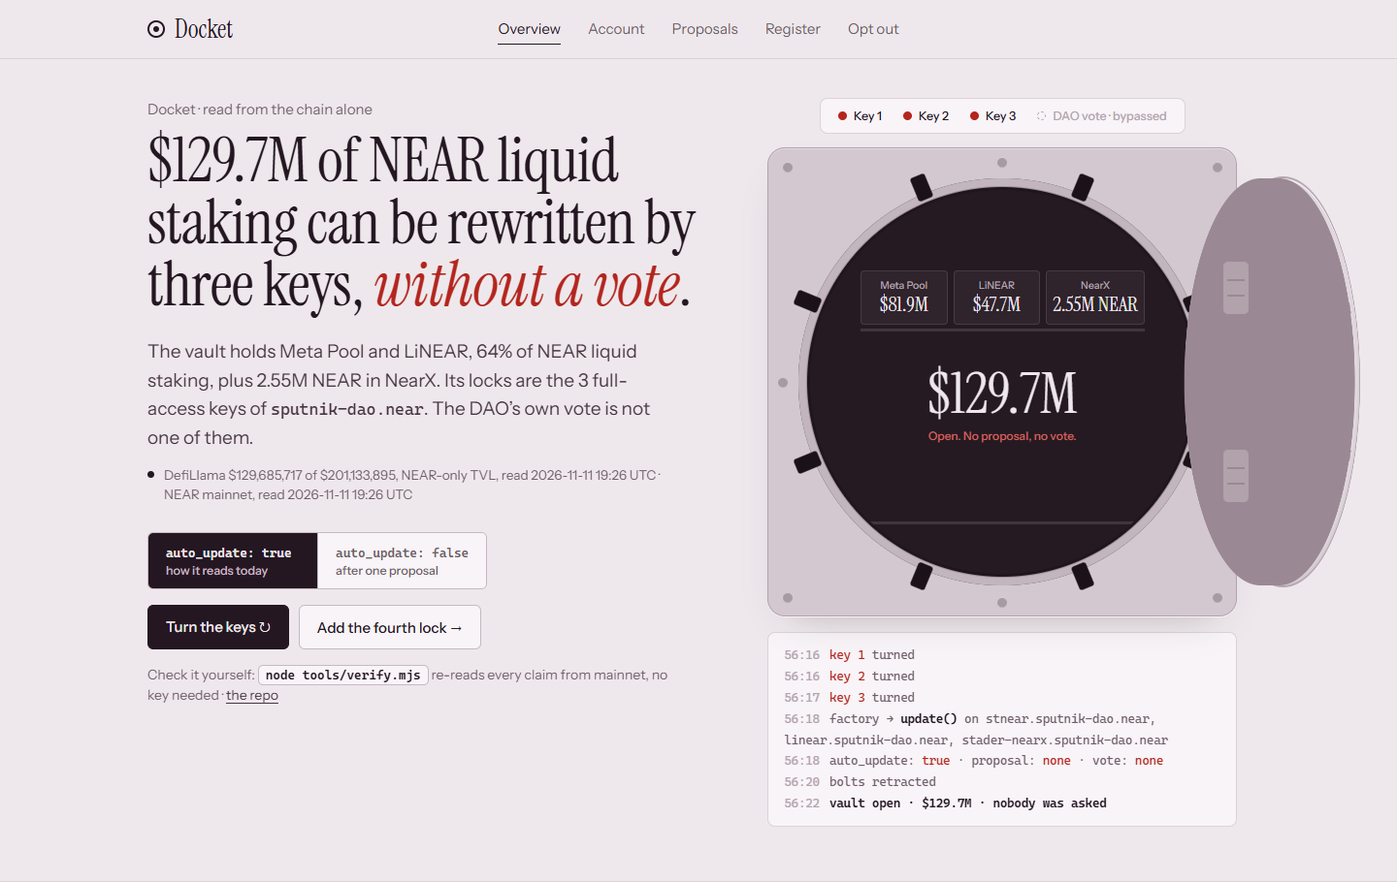
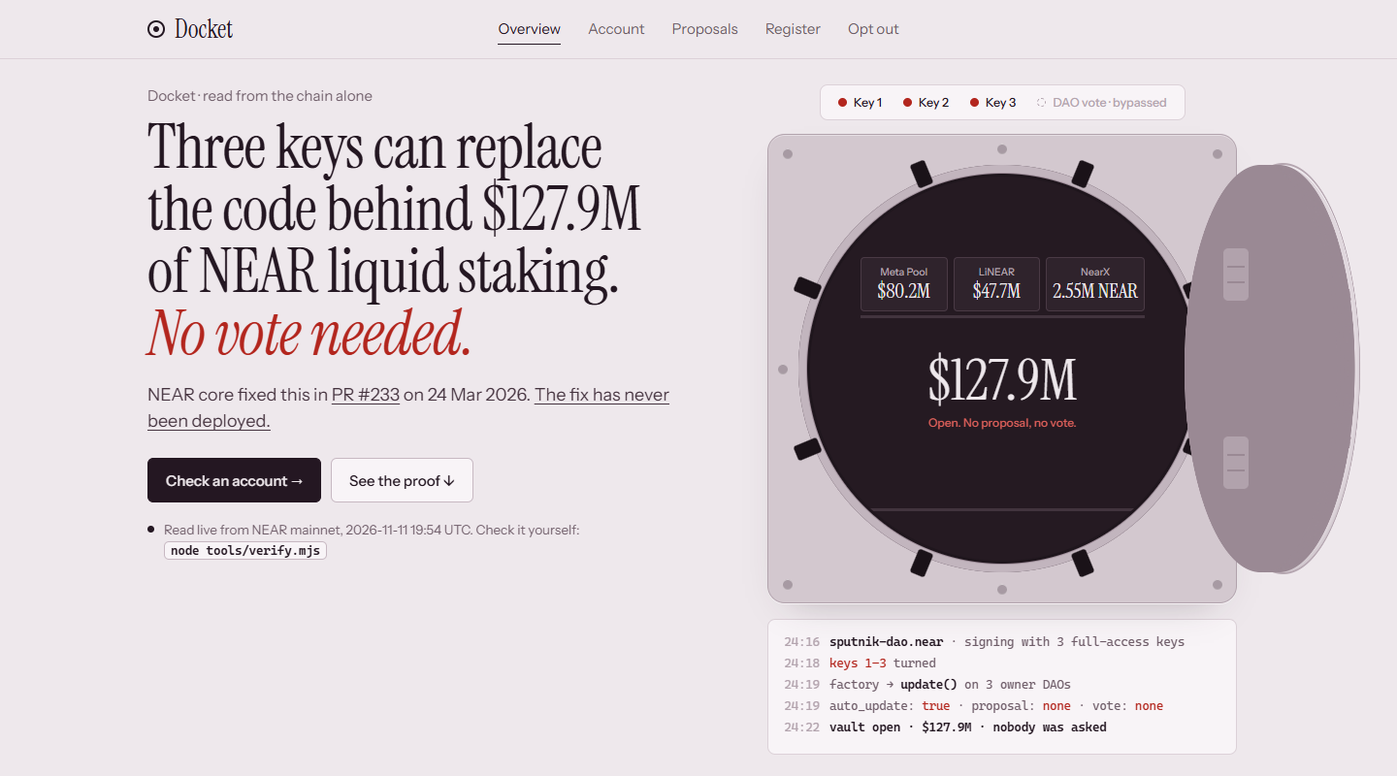
Homepage, less text and the same design: the hero is one sentence ("Three keys can replace the code behind $X of NEAR liquid staking. No vote needed.", $X the live Meta Pool + LiNEAR figure, recorded as fallback), the PR #233 line (the "never deployed" clause only while the live factory read says no

diff --git a/app/src/Home.jsx b/app/src/Home.jsx
@@ -8,14 +8,19 @@ import { useCallback, useEffect, useRef, useState } from 'react';
 import '../../web/assets/home.css';
 import { createRpc } from '../../web/assets/rpc.js';
 import { liveCounter, pct } from '../../web/assets/census.js';
-import { FACTORY } from '../../web/assets/index-view.js';
+import { FACTORY, countWord } from '../../web/assets/index-view.js';
 import { SOURCE } from '../../web/assets/source.js';
 import { startMotion } from '../../web/assets/motion.js';
 import { drawWaffle } from '../../web/assets/diagrams.js';
-import { useFinding, useCensus, headline, usd, usdShort, time, nearShort, pct0, RECORDED } from './lib/finding.js';
+import { useFinding, useCensus, usd, usdShort, time, nearShort, pct0, RECORDED } from './lib/finding.js';
 const REPO = 'https://github.com/aditi3175/docket';
 
 const TX = (h) => `https://nearblocks.io/txns/${h}`;
+const PR = 'https://github.com/near-daos/sputnik-dao-contract/pull/233';
+// The mainnet opt-out test on docket-demo.sputnik-dao.near (ARCHITECTURE.md §16.5): the same factory
+// update twice, only auto_update changed between them.
+const TX_TRUE = 'EZw51V5kCMeCCMsmNw5WqDsSUK8R2CHs4WyeK4jTtB1b'; // step 9, auto_update: true, update ran
+const TX_FALSE = '772n4ZWMRtmXwsWuVTSP5F1UkbZ27UNyM9SqVzgXnXFS'; // step 5, auto_update: false, rejected
 const PAGES = [['Overview', 'index.html'], ['Account', 'account.html'], ['Proposals', 'docket.html'], ['Register', 'register.html'], ['Opt out', 'optout.html']];
 const known = (o) => Boolean(o) && o !== 'unknown' && o !== 'none';
 const auKind = (a) => (a === true ? 'novote' : a === false ? 'optedout' : 'unknown');
@@ -28,37 +33,38 @@ function KeySvg({ w, h, faint }) {
 }
 
 // ---------------- copy built from the reads ----------------
-function Headline({ of }) {
-  const text = headline(of);
-  const cut = text.indexOf(', without a vote.');
-  if (cut < 0) return <>{text}</>;
-  return <>{text.slice(0, cut)}, <span className="novote">without a vote</span>.</>;
+// One sentence. The key count and the dollar figure are reads (recorded first, labelled below); an
+// unknown read says unknown (I2). The figure is the same one everywhere: Meta Pool + LiNEAR, the
+// DefiLlama-valued protocols whose DAO reads auto_update: true (index-view.js).
+function Headline({ s }) {
+  const n = s.keys.count; const x = s.headlineOf.exposedUsd;
+  const w = n === null ? null : countWord(n);
+  const who = w === null ? 'The factory’s keys (how many is unknown)' : `${w[0].toUpperCase()}${w.slice(1)} key${n === 1 ? '' : 's'}`;
+  return <>{who} can replace the code behind {typeof x === 'number' ? usdShort(x) : 'an unknown amount'} of NEAR liquid staking. <span className="novote">No vote needed.</span></>;
 }
 
-function Lede({ s }) {
-  const r = s.headlineOf;
-  const valued = r.rows.filter((x) => x.slug && x.autoUpdate === true).map((x) => x.name).join(' and ');
-  const nearx = r.rows.find((x) => !x.slug && x.autoUpdate === true && x.staked?.near);
-  const n = s.keys.count;
-  return (
-    <p className="lede">
-      {typeof r.exposedUsd === 'number'
-        ? <>The vault holds {valued || 'none of them'}, {pct0(r.exposedUsd, r.lsTotal)} of NEAR liquid staking{nearx ? <>, plus {nearShort(nearx.staked.near)} in NearX</> : null}. </>
-        : <>The dollar figure is unknown right now. </>}
-      {n === null
-        ? <>How many keys open it is unknown right now.</>
-        : <>Its locks are the {n} full-access key{n === 1 ? '' : 's'} of <Id>{FACTORY}</Id>. The DAO’s own vote is not one of them.</>}
-    </p>
-  );
+// I19: "never been deployed" is said only while the live factory read says so.
+function FixLine({ badge }) {
+  const tail = !badge ? <>Whether it is deployed: reading the factory…</>
+    : badge.state === 'not-shipped' ? <><a href="#fix">The fix has never been deployed.</a></>
+      : badge.state === 'factory-changed' ? <><a href="#fix">The factory has changed since; check what it deploys.</a></>
+        : <span className="unknown-text">Whether it is deployed: unknown.</span>;
+  return <p className="fixline">NEAR core fixed this in <a href={PR}>PR #233</a> on 24 Mar 2026. {tail}</p>;
 }
 
 function provenance(s) {
+  if (s.failed) return `Unknown: the read failed (${s.failed}). Shown: recorded ${time(RECORDED.llamaReadAt)}.`;
+  if (s.gaps.length) return `Live reads failed (${s.gaps.join(', ')}). Shown: recorded ${time(RECORDED.llamaReadAt)}.`;
+  if (s.recorded) return `Recorded ${time(RECORDED.llamaReadAt)} · reading NEAR mainnet live…`;
+  return `Read live from NEAR mainnet, ${time(s.readAt)}.`;
+}
+
+// The exact figures, small print in section 02 (I1: each with its source and time).
+function exact(s) {
   const r = s.headlineOf;
-  const money = typeof r.exposedUsd === 'number' ? `${usd(r.exposedUsd)} of ${usd(r.lsTotal)}, NEAR-only TVL` : 'value unknown';
-  if (s.failed) return `Unknown: the page failed while reading (${s.failed}). Shown: the values recorded ${time(RECORDED.llamaReadAt)}.`;
-  if (s.gaps.length) return `Live reads failed at ${time(s.readAt)}: ${s.gaps.join(', ')}. The headline shows the values recorded ${time(RECORDED.llamaReadAt)} (DefiLlama) and ${RECORDED.chainRecordedOn} (chain).`;
-  if (s.recorded) return `Recorded values: DefiLlama ${money}, ${time(RECORDED.llamaReadAt)} · NEAR mainnet, ${RECORDED.chainRecordedOn}. Reading live now…`;
-  return `DefiLlama ${money}, read ${time(s.llamaReadAt)} · NEAR mainnet, read ${time(s.readAt)}`;
+  const money = typeof r.exposedUsd === 'number' ? `${usd(r.exposedUsd)} of ${typeof r.lsTotal === 'number' ? usd(r.lsTotal) : 'unknown'}` : 'unknown';
+  const llama = s.recorded || s.gaps.length || s.failed ? `recorded ${time(RECORDED.llamaReadAt)}` : `read ${time(s.llamaReadAt)}`;
+  return `Meta Pool + LiNEAR, NEAR-only TVL (DefiLlama): ${money} NEAR liquid staking, ${llama}.`;
 }
 
 // ---------------- the vault's sequence ----------------
@@ -75,38 +81,37 @@ function useVault(s) {
   const latest = useRef(s);
   latest.current = s;
   useEffect(() => () => timers.current.forEach(clearTimeout), []);
-  const run = useCallback((mode) => {
+  const run = useCallback(() => {
     timers.current.forEach(clearTimeout); timers.current = [];
     const at = (ms, f) => timers.current.push(setTimeout(f, still() ? 0 : ms));
     const patch = (p) => set((x) => ({ ...x, ...p }));
-    const log = (...parts) => set((x) => ({ ...x, log: [...x.log, { t: stamp(), parts }].slice(-7) }));
+    const log = (...parts) => set((x) => ({ ...x, log: [...x.log, { t: stamp(), parts }].slice(-5) }));
     set({ ...IDLE, log: [] });
     const { keys, rows } = latest.current;
     const n = keys.count;
     if (n === null) { log('factory keys: ', ['unknown', 'unknown-text'], ' · the read failed, so the vault is not animated'); return; }
-    log([FACTORY, 'w'], ' · signing with its full-access keys');
+    log([FACTORY, 'w'], ` · signing with ${n} full-access key${n === 1 ? '' : 's'}`);
     const step = 650;
     for (let i = 0; i < n; i++) {
       at(500 + i * step, () => patch({ inK: i + 1 }));
-      at(1050 + i * step, () => { patch({ turned: i + 1 }); log([`key ${i + 1}`, 'novote'], ' turned'); });
+      at(1050 + i * step, () => { patch({ turned: i + 1 }); if (i === n - 1) log([n === 1 ? 'key 1' : `keys 1–${n}`, 'novote'], ' turned'); });
     }
     const t0 = 1050 + n * step;
     const owners = rows.map((r) => r.owner).filter(known);
-    at(t0, () => log('factory → ', ['update()', 'w'], ` on ${owners.length ? owners.join(', ') : 'the owner DAOs'}`));
+    at(t0, () => log('factory → ', ['update()', 'w'], ` on ${owners.length ? `${owners.length} owner DAO${owners.length === 1 ? '' : 's'}` : 'the owner DAOs'}`));
     const anyTrue = rows.some((r) => r.autoUpdate === true);
     const allFalse = rows.every((r) => r.autoUpdate === false);
-    if (mode === 't' && anyTrue) {
+    if (anyTrue) {
       at(t0 + 500, () => { patch({ vote: 'bypass' }); log('auto_update: ', ['true', 'novote'], ' · proposal: ', ['none', 'novote'], ' · vote: ', ['none', 'novote']); });
       at(t0 + 800, () => patch({ spin: true }));
-      at(t0 + 2000, () => { patch({ retract: true }); log('bolts retracted'); });
+      at(t0 + 2000, () => patch({ retract: true }));
       at(t0 + 2600, () => patch({ open: true }));
       at(t0 + 3900, () => log(['vault open · ', 'g'], TOTAL, [' · nobody was asked', 'g']));
-    } else if (mode === 'f' || allFalse) {
-      at(t0 + 500, () => { patch({ vote: 'req' }); log('auto_update: ', ['false', 'optedout'], ' · a DAO proposal is required'); });
+    } else if (allFalse) {
+      at(t0 + 500, () => { patch({ vote: 'req' }); log('auto_update: ', ['false', 'optedout'], ' · proposal required'); });
       at(t0 + 800, () => patch({ jam: true }));
-      at(t0 + 1400, () => { patch({ shake: true }); log(['update rejected', 'optedout'], mode === 'f' ? ' · as in the mainnet test, tx 772n4Z…' : ''); });
-      at(t0 + 2400, () => log(['vault stays shut', 'w'], ' · the members decide'));
-    } else {
+      at(t0 + 1400, () => { patch({ shake: true }); log(['update rejected', 'optedout']); });
+          } else {
       at(t0 + 500, () => log('auto_update: ', ['unknown', 'unknown-text'], ' · the read failed; the vault is shown shut'));
     }
   }, []);
@@ -192,47 +197,37 @@ function Vault({ s, st, frameRef }) {
 
 function Hero({ s }) {
   const [st, run] = useVault(s);
-  const [mode, setMode] = useState('t');
   const frameRef = useRef(null);
   useEffect(() => {
-    const f = frameRef.current; if (!f || typeof IntersectionObserver !== 'function') { run('t'); return undefined; }
-    const o = new IntersectionObserver((es) => { if (es.some((e) => e.isIntersecting)) { run('t'); o.disconnect(); } }, { threshold: 0.25 });
+    const f = frameRef.current; if (!f || typeof IntersectionObserver !== 'function') { run(); return undefined; }
+    const o = new IntersectionObserver((es) => { if (es.some((e) => e.isIntersecting)) { run(); o.disconnect(); } }, { threshold: 0.25 });
     o.observe(f);
     return () => o.disconnect();
   }, [run]);
-  const pick = (m) => { setMode(m); run(m); };
   const live = !s.recorded && !s.gaps.length && !s.failed;
   return (
     <div className="hero"><div className="wrap">
       <div className="hero-text">
         <div className="eyebrow">Docket · read from the chain alone</div>
-        <h1><Headline of={s.headlineOf} /></h1>
-        <Lede s={s} />
-        <p className={`prov${live ? ' live' : ''}`} aria-live="polite"><i /><span>{provenance(s)}</span></p>
-        <div className="modes" role="group" aria-label="Replay the vault">
-          <button type="button" className="t" aria-pressed={mode === 't'} onClick={() => pick('t')}><span>auto_update: true</span><small>how it reads today</small></button>
-          <button type="button" className="f" aria-pressed={mode === 'f'} onClick={() => pick('f')}><span>auto_update: false</span><small>after one proposal</small></button>
-        </div>
+        <h1><Headline s={s} /></h1>
+        <FixLine badge={s.badge} />
         <div className="cta">
-          <button type="button" className="btn gold" onClick={() => run(mode)}>Turn the keys ↻</button>
-          <a className="btn" href="optout.html?dao=stnear.sputnik-dao.near">Add the fourth lock →</a>
+          <a className="btn gold" href="account.html">Check an account →</a>
+          <a className="btn" href="#proof">See the proof ↓</a>
         </div>
-        <p className="checkit">Check it yourself: <code>node tools/verify.mjs</code> re-reads every claim from mainnet, no key needed · <a href={REPO}>the repo</a></p>
+        <p className={`prov${live ? ' live' : ''}`} aria-live="polite"><i /><span>{provenance(s)} Check it yourself: <a href={REPO}><code>node tools/verify.mjs</code></a></span></p>
       </div>
       <Vault s={s} st={st} frameRef={frameRef} />
     </div></div>
   );
 }
 
-// ---------------- the path: today, and after one proposal ----------------
-// Two lanes, the same keys. Today's lane is the read: the key count and how many DAOs read
-// auto_update: true. The other is the mainnet opt-out test (§16.5): the factory's update was rejected.
-// Motion: when the lanes scroll into view the steps light up in order; then a dot keeps running the
-// path (to the end today; to the ✕ after the proposal). Off under prefers-reduced-motion (home.css).
-function Story({ s }) {
-  const n = s.keys.count;
-  const open = s.rows.filter((x) => x.autoUpdate === true);
-  const keys = n === null ? 'keys: unknown' : `${n} keys`;
+// ---------------- 01 the proof: the same update, two endings ----------------
+// The mainnet opt-out test (§16.5) on docket-demo.sputnik-dao.near: the same receipt
+// sputnik-dao.near → docket-demo.sputnik-dao.near update(), with only auto_update changed. Each lane
+// links its transaction. Motion: the steps light up in order when the lanes scroll into view, then a
+// dot runs the path (to the end with true; to the ✕ with false). Off under prefers-reduced-motion.
+function Story() {
   const ref = useRef(null);
   const [play, setPlay] = useState(false);
   useEffect(() => {
@@ -243,28 +238,30 @@ function Story({ s }) {
   const node = (i, icon, label, dim) => <li className={`n${dim ? ' dim' : ''}`} style={{ '--i': i }}><svg aria-hidden="true"><use href={`#${icon}`} /></svg><b>{label}</b></li>;
   const arrow = (i, cls = '') => <li className={`a ${cls}`.trim()} style={{ '--i': i }} aria-hidden="true"><em /></li>;
   return (
-    <section className="s" id="story"><div className="wrap">
-      <div className="sh"><div className="n">01 · The path</div><div>
+    <section className="s" id="proof"><div className="wrap">
+      <div className="sh"><div className="n">01 · The proof</div><div>
         <h2>Same keys. <span className="novote">Different ending.</span></h2>
+        <p>On mainnet, the factory sent the same <Id>update()</Id> to a test DAO, docket-demo, twice. Only <Id>auto_update</Id> changed between them.</p>
       </div></div>
       <div ref={ref} className={`ends${play ? ' play' : ''}`}>
-        <div className={`end ${open.length ? 'novote' : 'unknown'}`}>
-          <h3>Today</h3>
-          <small>{open.length ? `auto_update: true on ${open.map((x) => x.name).join(', ')}` : 'auto_update: unknown'}</small>
-          <ol className="chain" aria-label="Today: the factory's keys replace the DAO's code">
-            {node(0, 'i-key', keys)}{arrow(1)}{node(2, 'i-factory', 'factory')}{arrow(3)}{node(4, open.length ? 'i-dao' : 'i-dao-u', 'DAO')}{arrow(5)}{node(6, 'i-coins', 'deposits')}
+        <div className="end novote">
+          <h3>auto_update: true</h3>
+          <small>step 9 · the default</small>
+          <ol className="chain" aria-label="auto_update true: the factory's update replaced the DAO's code">
+            {node(0, 'i-factory', 'sputnik-dao.near')}{arrow(1)}{node(2, 'i-dao', 'docket-demo')}{arrow(3)}{node(4, 'i-code', 'its code')}
           </ol>
-          <div className="end-out" style={{ '--i': 7 }}>{open.length ? <><b>replaced</b><span>no proposal, no vote</span></> : <><b className="unknown-text">unknown</b><span>auto_update unread</span></>}</div>
+          <div className="end-out" style={{ '--i': 5 }}><b>replaced</b><span>no proposal, no vote · <a href={TX(TX_TRUE)}>EZw51V5k… on nearblocks</a></span></div>
         </div>
         <div className="end optedout">
-          <h3>After one proposal</h3>
-          <small>auto_update: false</small>
-          <ol className="chain" aria-label="After the opt-out: the factory's update is rejected at the DAO">
-            {node(0, 'i-key', keys)}{arrow(1)}{node(2, 'i-factory', 'factory')}{arrow(3, 'stop')}{node(4, 'i-dao-v', 'DAO')}{arrow(5, 'dim')}{node(6, 'i-coins', 'deposits', true)}
+          <h3>auto_update: false</h3>
+          <small>step 5 · after one proposal</small>
+          <ol className="chain" aria-label="auto_update false: the factory's update was rejected at the DAO">
+            {node(0, 'i-factory', 'sputnik-dao.near')}{arrow(1, 'stop')}{node(2, 'i-dao-v', 'docket-demo')}{arrow(3, 'dim')}{node(4, 'i-code', 'its code', true)}
           </ol>
-          <div className="end-out" style={{ '--i': 7 }}><b>rejected</b><span>a vote is required · <a href={TX('772n4ZWMRtmXwsWuVTSP5F1UkbZ27UNyM9SqVzgXnXFS')}>tested on mainnet</a></span></div>
+          <div className="end-out" style={{ '--i': 5 }}><b>rejected</b><span><Id>ERR_MUST_BE_SELF_OR_FACTORY</Id> · <a href={TX(TX_FALSE)}>772n4ZWM… on nearblocks</a></span></div>
         </div>
       </div>
+      <p className="why-line"><b>Why it exists:</b> <Id>auto_update</Id> lets the factory rescue a broken DAO. The problem is that nobody downstream can see it, and NEAR’s own fix isn’t deployed.</p>
     </div></section>
   );
 }
@@ -279,7 +276,7 @@ function Deposits({ s }) {
     <section className="s" id="inside"><div className="wrap">
       <div className="sh"><div className="n">02 · Inside the vault</div><div>
         <h2>Each deposit is owned by a DAO the factory can upgrade <span className="novote">without a vote</span>.</h2>
-        <p>Each protocol's contract is owned by a Sputnik DAO. Each card shows that DAO's <Id>auto_update</Id>, read from the chain.</p>
+        <p>Each protocol's contract is owned by a Sputnik DAO. Each card shows that DAO's <Id>auto_update</Id>.</p>
       </div></div>
       <div className="deposits">
         {s.rows.map((x, i) => {
@@ -308,6 +305,7 @@ function Deposits({ s }) {
         <span>{ok ? `${valued.map((x) => x.name).join(' + ')} = ${pct0(r.exposedUsd, r.lsTotal)} of ${usdShort(r.lsTotal)} NEAR liquid staking (DefiLlama, NEAR-only TVL)` : 'Share of NEAR liquid staking: unknown'}</span>
         <span>{nx ? `${nx.name}: staked NEAR, no USD figure` : ''}</span>
       </div>
+      <p className="fine">{exact(s)}</p>
     </div></section>
   );
 }
@@ -328,7 +326,7 @@ function Keys({ s }) {
     <section className="s" id="keys"><div className="wrap">
       <div className="sh"><div className="n">03 · Who holds the keys</div><div>
         <h2>The factory's full-access keys open every one. <span className="novote">The DAO's vote is not a lock.</span></h2>
-        <p>With <Id>auto_update: true</Id>, the factory's <Id>update()</Id> replaces a DAO's code. No proposal is created, so there is nothing for members to vote on.</p>
+        <p>With <Id>auto_update: true</Id>, the factory's <Id>update()</Id> replaces a DAO's code. No proposal is created, so members have nothing to vote on.</p>
       </div></div>
       <div className="keys">
         <div className="keyring">
@@ -372,7 +370,7 @@ function Doors({ c }) {
     <section className="s" id="doors"><div className="wrap">
       <div className="sh"><div className="n">04 · Every door like this one</div><div>
         <h2>{ok ? <>This is not one vault. <span className="novote">{fmt(k.true)} of {fmt(c.c.denominator)}</span> DAOs have the same lock.</> : 'Most DAOs on the factory have the same lock.'}</h2>
-        <p>One square per DAO created by <Id>{FACTORY}</Id>, from the dated census in graph.json. Hover a square for its account id; click it to read its proposals.</p>
+        <p>One square per DAO created by <Id>{FACTORY}</Id>, from the dated census. Click a square to read its proposals.</p>
       </div></div>
       {ok ? <Waffle records={c.records} counts={k} /> : <p className="unknown-text">{c.status === 'reading' ? 'Reading the census…' : `Census unknown: ${c.reason}`}</p>}
       <div className="census-foot">
@@ -444,7 +442,7 @@ export default function Home() {
 
       <main id="main">
         <Hero s={s} />
-        <Story s={s} />
+        <Story />
         <Deposits s={s} />
         <Keys s={s} />
         <Doors c={c} />
@@ -482,6 +480,7 @@ export default function Home() {
         <symbol id="i-dao-v" viewBox="0 0 64 64"><g fill="#6A3FB5"><path d="M32 6 L58 20 H6 Z" /><rect x="10" y="24" width="6" height="24" /><rect x="22" y="24" width="6" height="24" /><rect x="36" y="24" width="6" height="24" /><rect x="48" y="24" width="6" height="24" /><rect x="6" y="50" width="52" height="7" /></g></symbol>
         <symbol id="i-dao-u" viewBox="0 0 64 64"><g fill="none" stroke="#8C7D87" strokeWidth="2.5" strokeDasharray="4 3"><path d="M32 6 L58 20 H6 Z" /><rect x="8" y="24" width="48" height="33" /></g></symbol>
         <symbol id="i-coins" viewBox="0 0 64 64"><ellipse cx="32" cy="48" rx="20" ry="7" fill="#45333F" /><rect x="12" y="34" width="40" height="14" fill="#45333F" /><ellipse cx="32" cy="34" rx="20" ry="7" fill="#6E5C68" /><rect x="12" y="20" width="40" height="14" fill="#6E5C68" /><ellipse cx="32" cy="20" rx="20" ry="7" fill="#B3A4AE" /></symbol>
+        <symbol id="i-code" viewBox="0 0 64 64"><rect x="6" y="10" width="52" height="44" rx="5" fill="#45333F" /><path d="M24 24 L15 32 L24 40 M40 24 L49 32 L40 40 M35 21 L29 43" stroke="#F8F4F7" strokeWidth="4" strokeLinecap="round" strokeLinejoin="round" fill="none" /></symbol>
         <g id="keyshape"><circle cx="17" cy="14" r="12" fill="none" stroke="url(#kg)" strokeWidth="6" /><rect x="14" y="25" width="6" height="52" rx="2" fill="url(#kg)" /><rect x="20" y="58" width="9" height="5" fill="url(#kg)" /><rect x="20" y="68" width="6" height="5" fill="url(#kg)" /></g>
       </defs></svg>
     </>

diff --git a/web/assets/home.css b/web/assets/home.css
@@ -228,7 +228,7 @@ footer a { color: var(--ink); }
   .hero > .wrap { display: flex; flex-direction: column; align-items: stretch; gap: 0; }
   .hero-text { display: contents; }
   .hero-text > * { order: 3; }
-  .hero-text > .eyebrow, .hero-text > h1 { order: 1; }
+  .hero-text > .eyebrow, .hero-text > h1, .hero-text > .fixline, .hero-text > .fixline ~ .cta { order: 1; }
   .stage { order: 2; margin: 24px 0 8px; }
   .keys, .why, .deposits, .cards { grid-template-columns: 1fr; }
   .dep + .dep, .card + .card, .flow { padding-left: 0; border-left: 0; border-top: 1px solid var(--line); }
@@ -448,3 +448,17 @@ footer a { color: var(--ink); }
 .checkit { margin-top: 16px; font-size: 14px; color: var(--mute); max-width: 540px; }
 .checkit code { font: 500 13px var(--mono); color: var(--ink); background: var(--surface); border: 1px solid var(--line-2); border-radius: 5px; padding: 2px 7px; white-space: nowrap; }
 .checkit a { color: var(--ink-2); }
+
+/* ---------- the homepage's short hero (app/src/Home.jsx): headline, fix line, two buttons, one small line ---------- */
+.fixline { margin-top: 18px; font-size: 18px; line-height: 1.5; color: var(--ink-2); max-width: 560px; }
+.fixline a { color: inherit; }
+.hero-text .cta { margin-top: 24px; }
+.hero-text .prov { margin-top: 18px; }
+.prov code { font: 500 12.5px var(--mono); color: var(--ink); background: var(--surface); border: 1px solid var(--line-2); border-radius: 5px; padding: 1px 6px; white-space: nowrap; }
+.prov a { text-decoration: none; }
+.why-line { margin-top: 22px; font-size: 16px; line-height: 1.55; color: var(--ink-2); max-width: 760px; }
+.fine { margin-top: 10px; font-size: 12.5px; color: var(--mute); }
+.end-out .id { font-size: 12.5px; }
+.hero:has(.fixline) { padding-top: 26px; }
+.hero-text .prov { max-width: 600px; }
+@media (max-width: 980px) { .hero-text > .fixline ~ .cta { margin-bottom: 4px; } }

diff --git a/README.md b/README.md
@@ -1,5 +1,15 @@
 # Docket
 
+> **The claim.** Three full-access keys on `sputnik-dao.near` can replace the code of the DAOs behind
+> **$126.7M** of NEAR liquid staking (Meta Pool + LiNEAR, NEAR-only TVL, DefiLlama 2026-11-06). No vote needed.\
+> NEAR core fixed this in [PR #233](https://github.com/near-daos/sputnik-dao-contract/pull/233) (merged 2026-03-24); the factory has never deployed the fix.\
+> **Live:** [doc-ket-project.vercel.app](https://doc-ket-project.vercel.app). Every figure is read in your browser from NEAR mainnet and DefiLlama.\
+> **Check it yourself** (no key, no install): `node tools/verify.mjs` re-reads every claim from mainnet.\
+> **The proof** (mainnet, test DAO `docket-demo.sputnik-dao.near`, the same factory `update()` twice):\
+> `auto_update: true` → code replaced, no vote: [EZw51V5k…](https://nearblocks.io/txns/EZw51V5kCMeCCMsmNw5WqDsSUK8R2CHs4WyeK4jTtB1b)\
+> `auto_update: false` → rejected, `ERR_MUST_BE_SELF_OR_FACTORY`: [772n4ZWM…](https://nearblocks.io/txns/772n4ZWMRtmXwsWuVTSP5F1UkbZ27UNyM9SqVzgXnXFS)\
+> The opt-out is one proposal; Docket drafts it. 1,607 of 2,086 Sputnik DAOs still read `true` (census 2026-11-07).
+
 **Who can change a NEAR account without a vote, read from the chain alone.**
 
 **Live: [doc-ket-project.vercel.app](https://doc-ket-project.vercel.app)** · try
@@ -13,9 +23,9 @@
 ![backend: none](https://img.shields.io/badge/backend-none-2b1d26)
 ![keys held: none](https://img.shields.io/badge/keys%20held-none-2b1d26)
 
-![The Docket homepage: "$129.7M of NEAR liquid staking can be rewritten by three keys, without a vote", beside a vault with one keyhole per factory key](docs/screenshots/home.png)
+![The Docket homepage's first screen: "Three keys can replace the code behind $127.9M of NEAR liquid staking. No vote needed.", the PR #233 line, two buttons, and the vault opened by the factory's three keys](docs/screenshots/home.png)
 
-<sub>The homepage, read live on 2026-11-11 19:26 UTC. The dollar figure is DefiLlama's at the moment of the read, so it moves; the spec's dated figure is $126.7M (2026-11-06).</sub>
+<sub>The homepage's first screen at 1440×800, read live on 2026-11-11 19:54 UTC. The dollar figure is DefiLlama's at the moment of the read, so it moves; the spec's dated figure is $126.7M (2026-11-06).</sub>
 
 Docket follows every path by which an account's code or rules can change: its
 access keys, its owner, the global contract it runs, and, for a Sputnik DAO, the
@@ -264,7 +274,7 @@ npm run preview                    # serves dist/ at http://localhost:4173
 | do | see |
 |---|---|
 | Open http://localhost:4173 | The finding in one sentence. It starts from values recorded on 2026-11-06, labelled as recorded, then switches to live figures with their read times. |
-| Click "auto_update: false", then "Turn the keys" | The same keys turn, but the update is rejected and the door stays shut. This replays the mainnet opt-out test (transaction `772n4Z…`), not any DAO's current state. |
+| Click "See the proof" | The mainnet opt-out test: the same factory update with `auto_update: true` (replaced) and `false` (rejected, `ERR_MUST_BE_SELF_OR_FACTORY`), each linked to its transaction on nearblocks. |
 | Turn off the network and reload | The headline keeps the recorded values and names each read that failed. Unread values show as "unknown", never as zero. |
 
 `dist/` is static (HTML, JS, CSS, fonts, the tool pages and `graph.json`) and
